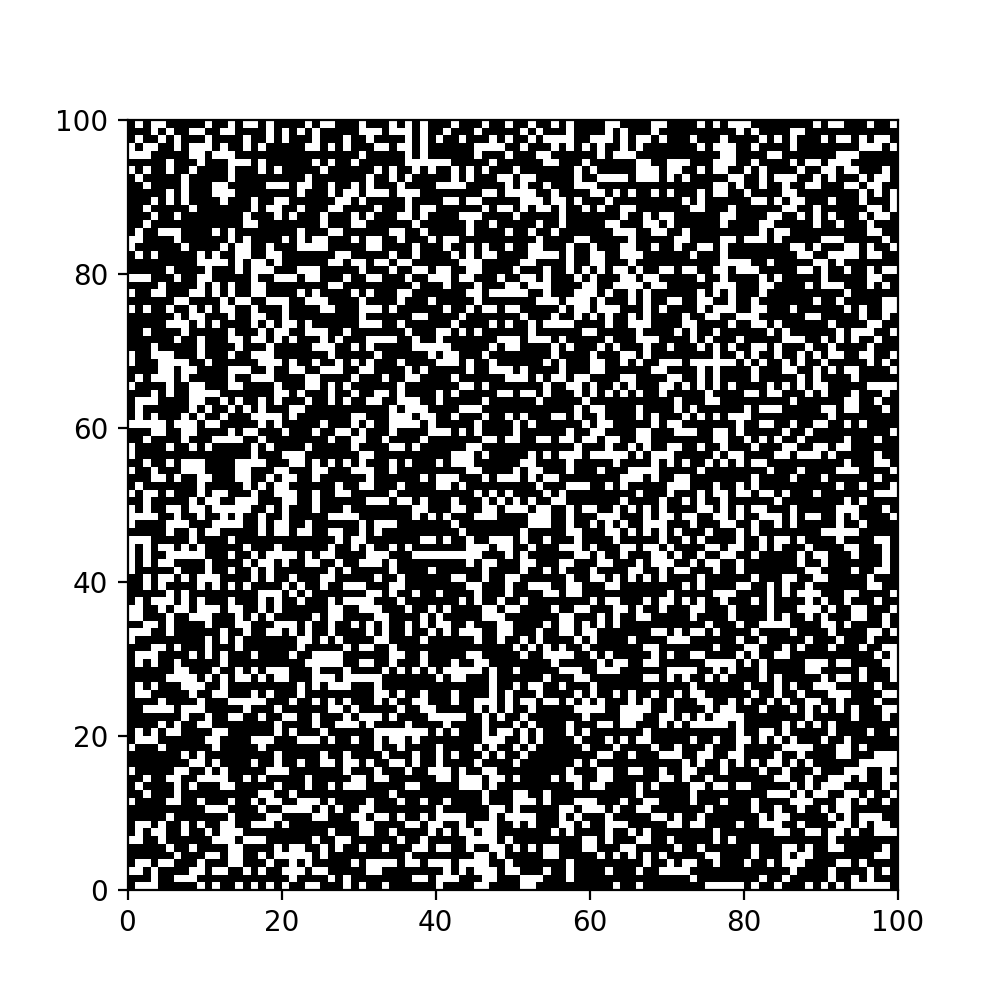
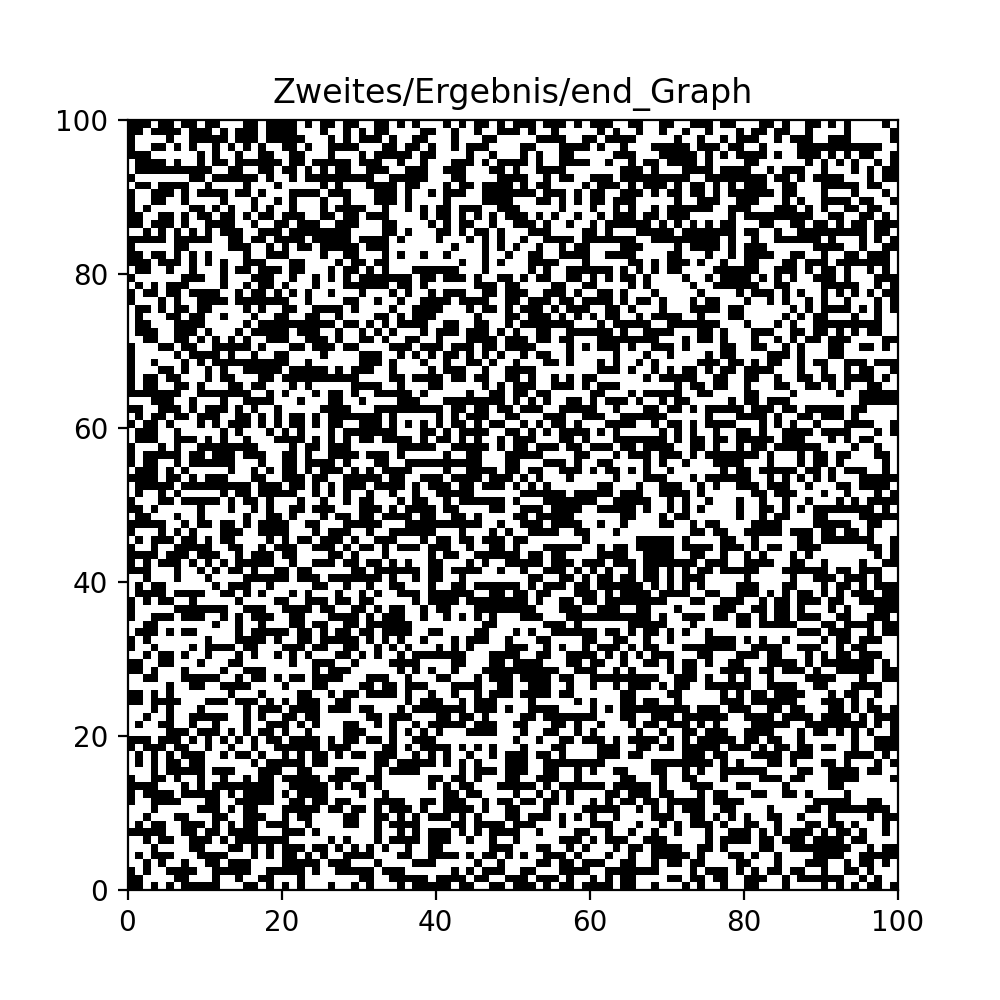
f

Changed region(s): [[0.124, 0.062, 0.899, 0.899]]

diff --git a/Zweites/SwitchSpin.py b/Zweites/SwitchSpin.py
@@ -5,8 +5,9 @@ import numpy as np
 # Funktionen
 import DetermineCharge as DC
 import MakeGitter as MG
-import Position as Pos
+import getPosition as GP
 import DeltaE.V3 as DeltaE
+import matplotlib.pyplot as plt
 
 def switchSpin(conf, n, T, r, distanz=0, akzeptanzrate=False):
     """
@@ -23,6 +24,9 @@ def switchSpin(conf, n, T, r, distanz=0, akzeptanzrate=False):
         akzeptiertW = 0
         abgelehnt = 0
 
+    yAxis = np.zeros(r)
+
+
     posAlt = (None, None)
     pos = None
 
@@ -34,7 +38,7 @@ def switchSpin(conf, n, T, r, distanz=0, akzeptanzrate=False):
         charge = MG.charge()
 
         # Position des Spinwechsel wird ausgewählt.
-        pos = Pos.position(posAlt, distanz, n)
+        pos = GP.getPosition(posAlt, distanz, n)
 
         # Zähler für Akzeptanzrate wird erhöht.
         if akzeptanzrate:
@@ -68,6 +72,7 @@ def switchSpin(conf, n, T, r, distanz=0, akzeptanzrate=False):
             pass
 
         altE = altE + dE
+        yAxis[x] = altE
 
     # Ausgaben für Akzeptanzrate.
     if akzeptanzrate:
@@ -76,5 +81,15 @@ def switchSpin(conf, n, T, r, distanz=0, akzeptanzrate=False):
         print("\tdE < 0 = " + str(akzeptiertE))
         print("\tw < e = " + str(akzeptiertW))
         print("unaccepted = "  + str(abgelehnt))
+        print("Akzeptanzrate (akzeptiert/Versuche): " + str(akzeptiert/Versuche))
+
+    fig, ax = plt.subplots()
+    xAxis = np.arange(0, r, 1)
+    ax.plot(xAxis, yAxis)
+    ax.set_title("Energie über r")
+    ax.axis([0,r, 0, ])
+    # plt.show()
+    # fig.savefig("bljusdfsdngo")
+
 
     return conf

diff --git a/Zweites/main.py b/Zweites/main.py
@@ -9,19 +9,23 @@ import matplotlib.pyplot as plt
 import numpy as np
 
 n = 100
-T = 100000000000000000
-r = 10000
+T = 1000
+r = 1000
 
 gitter = MG.getGitterV2(n)
 
-MG.saveIMG(gitter, n, "Zweites/Ergebnis/start_Graph")
+MG.saveGridIMG(gitter, n, "Zweites/Ergebnis/start_Graph")
 
 MG.saveFile(gitter, "Zweites/Ergebnis/start_Array")
 
 conf_neu = SwSp.switchSpin(gitter, n, T, r, distanz=0, akzeptanzrate=True)
 
-MG.saveIMG(conf_neu, n, "Zweites/Ergebnis/end_Graph")
+MG.saveGridIMG(conf_neu, n, "Zweites/Ergebnis/end_Graph")
 MG.saveFile(gitter, "Zweites/Ergebnis/end_Array")
+
+plt.show()
+
+
 
 # x = MG.getGitter(n)
 # c = DC.getAllCharge(x, n)

diff --git a/Zweites/MakeGitter.py b/Zweites/MakeGitter.py
@@ -36,11 +36,12 @@ def plot(my_arr, n):
     # Plots everything
     plt.show()
 
-def saveIMG(my_arr, n, string):
+def saveGridIMG(my_arr, n, string):
     """Saves Array visualized as image."""
     # Does fancy stuff. (creating subplot)
     fig = plt.figure(figsize=(5,5))
     ax = fig.add_subplot(111, aspect='equal')
+    ax.set_title(string)
 
     # Colormap for specific colors.
     cMap = c.ListedColormap(["Black", 'White'])

diff --git a/Zweites/getPosition.py b/Zweites/getPosition.py
@@ -1,6 +1,6 @@
 import numpy as np
 
-def position(posAlt, distanz, n):
+def getPosition(posAlt, distanz, n):
     """
     Sucht anhand von der vorherigen Position des Spinwechsels und der angegeben Variable 'distanz' eine neue Position heraus.
     Diese neue Position ist abhängig von einigen Faktoren.
